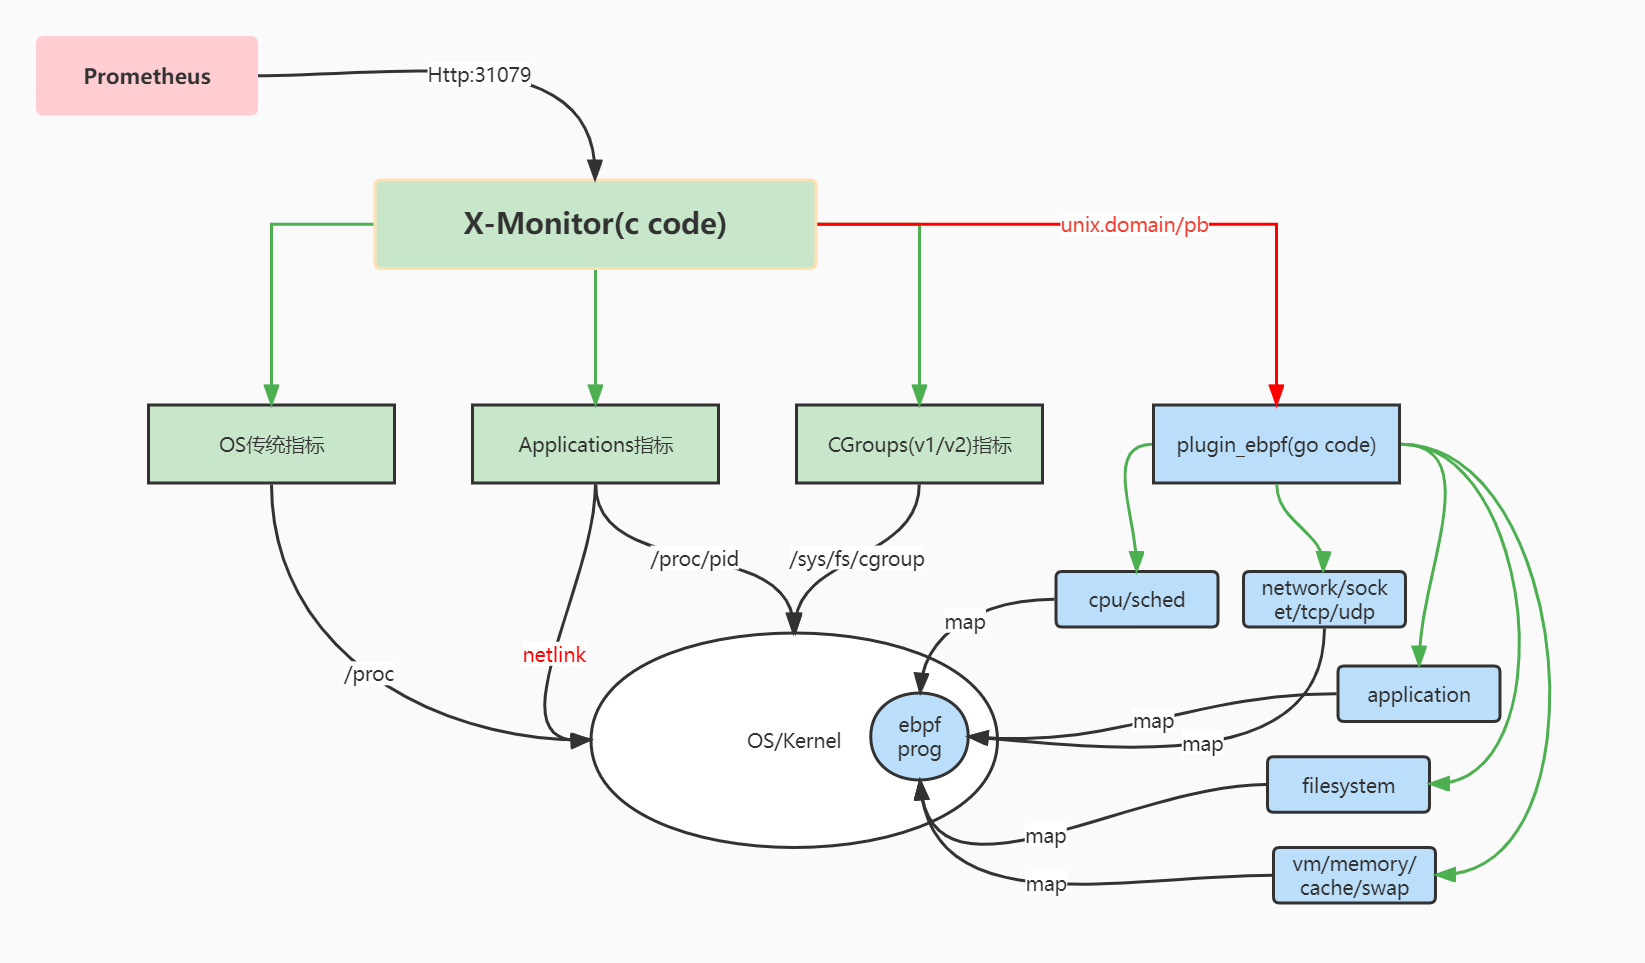
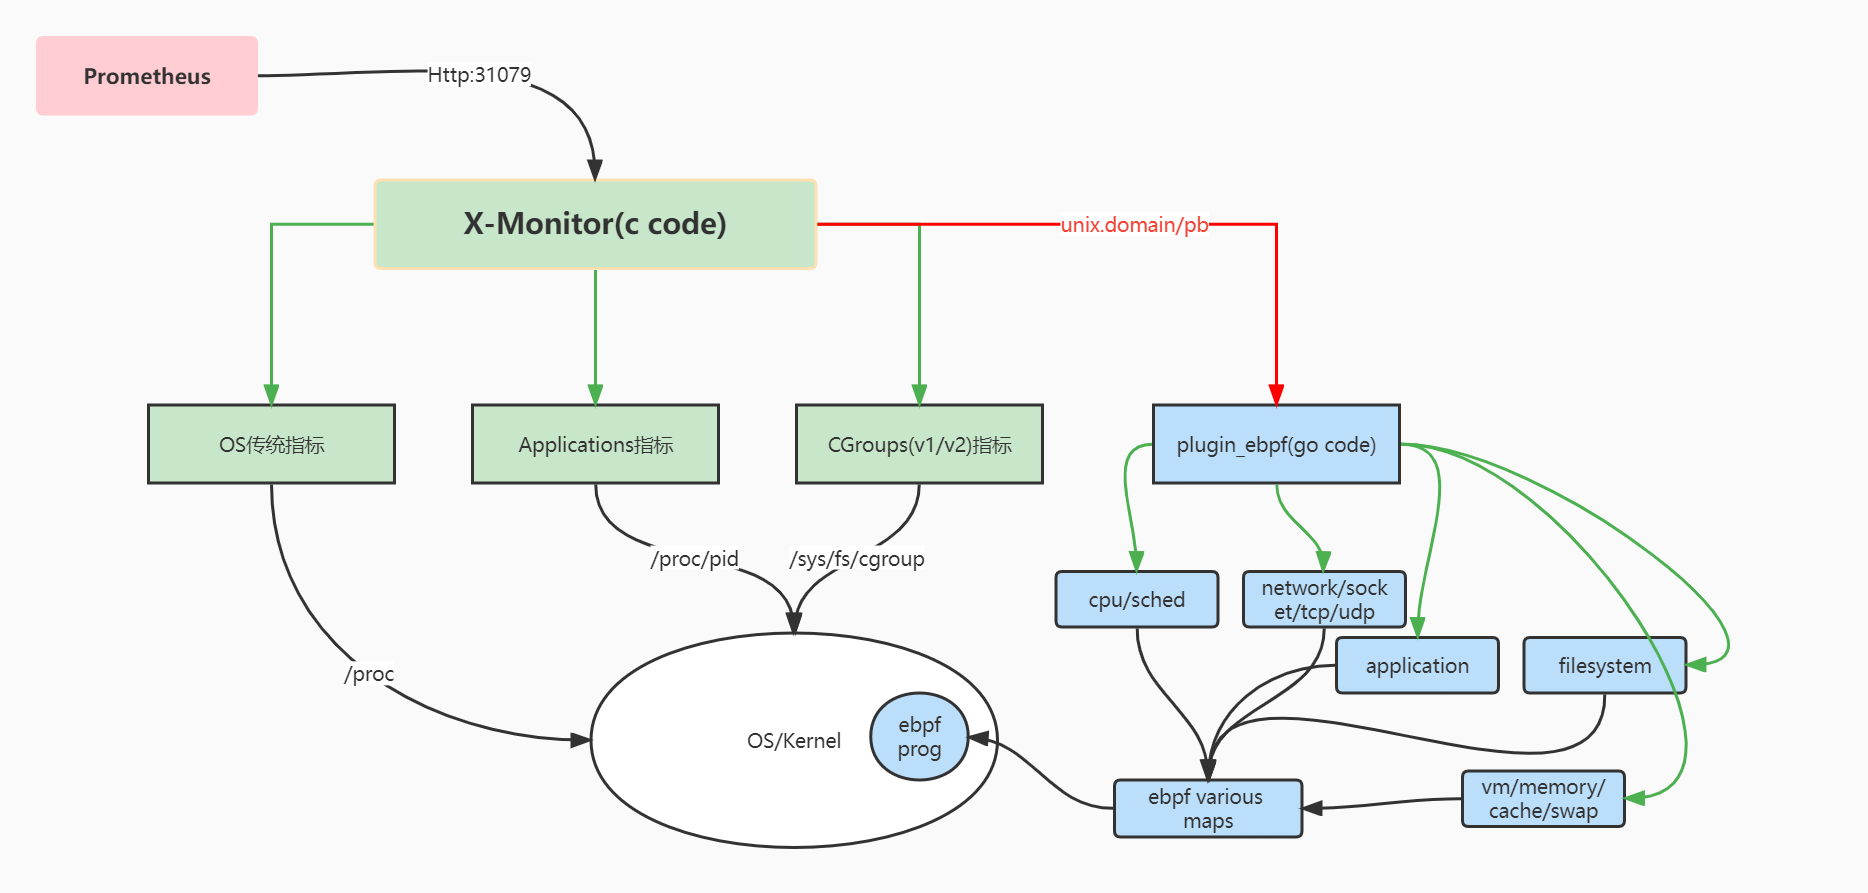
feat:collect process sock diag, modify x-monitor picture

diff --git a/collectors/proc_sock_diag/proc_sock_diag.c b/collectors/proc_sock_diag/proc_sock_diag.c
@@ -1,0 +1,34 @@
+/*
+ * @Author: CALM.WU
+ * @Date: 2022-11-15 16:04:51
+ * @Last Modified by: CALM.WU
+ * @Last Modified time: 2022-11-15 16:26:09
+ */
+
+#include "proc_sock_diag.h"
+#include "common_def.h"
+
+#include "utils/common.h"
+#include "utils/compiler.h"
+
+static const char *const __socket_state_name[] = {
+    "UNKNOWN",
+    [SS_ESTABLISHED] = "ESTABLISHED",
+    [SS_SYN_SENT] = "SYN_SENT",
+    [SS_SYN_RECV] = "SYN_RECV",
+    [SS_FIN_WAIT1] = "FIN_WAIT1",
+    [SS_FIN_WAIT2] = "FIN_WAIT2",
+    [SS_TIME_WAIT] = "TIME_WAIT",
+    [SS_CLOSE] = "CLOSE",
+    [SS_CLOSE_WAIT] = "CLOSE_WAIT",
+    [SS_LAST_ACK] = "LAST_ACK",
+    [SS_LISTEN] = "LISTEN",
+    [SS_CLOSING] = "CLOSING", /* Now a valid state */
+};
+
+const char *sock_state_name(enum SOCK_STATE ss) {
+    if (ss < 1 || ss >= SS_MAX) {
+        return __socket_state_name[0];
+    }
+    return __socket_state_name[ss];
+}

diff --git a/collectors/proc_sock_diag/common_def.h b/collectors/proc_sock_diag/common_def.h
@@ -1,0 +1,39 @@
+/*
+ * @Author: CALM.WU
+ * @Date: 2022-11-15 15:07:39
+ * @Last Modified by: CALM.WU
+ * @Last Modified time: 2022-11-15 16:23:04
+ */
+
+#pragma once
+
+#include <stdint.h>
+#include <uapi/
+
+// SOCK类型
+enum SOCK_TYPE { ST_UNKNOWN, ST_TCP, ST_TCP6, ST_UDP, ST_UDP6, ST_UNIX, ST_MAX };
+
+// SOCK状态
+enum SOCK_STATE {
+    SS_UNKNOWN = 0,
+    SS_ESTABLISHED = 1,
+    SS_SYN_SENT,
+    SS_SYN_RECV,
+    SS_FIN_WAIT1,
+    SS_FIN_WAIT2,
+    SS_TIME_WAIT,
+    SS_CLOSE,
+    SS_CLOSE_WAIT,
+    SS_LAST_ACK,
+    SS_LISTEN,
+    SS_CLOSING,   /* Now a valid state */
+    SS_MAX_STATES /* Leave at the end! */
+};
+
+struct sock_info {
+    uint32_t        ino;   // sock inode
+    enum SOCK_TYPE  sock_type;
+    enum SOCK_STATE sock_state;
+};
+
+extern const char *const socket_state_name[];

diff --git a/collectors/proc_sock_diag/proc_sock_diag.h b/collectors/proc_sock_diag/proc_sock_diag.h
@@ -1,0 +1,16 @@
+/*
+ * @Author: CALM.WU
+ * @Date: 2022-11-15 15:06:47
+ * @Last Modified by: CALM.WU
+ * @Last Modified time: 2022-11-15 16:42:59
+ */
+
+#pragma once
+
+#include "common_def.h"
+
+extern const char *sock_state_name(enum SOCK_STATE ss);
+
+extern int32_t do_sock_diag();
+
+extern struct sock_info *find_sock_info(uint32_t ino);

diff --git a/collectors/proc_sock_diag/proc_tcp_diag.c b/collectors/proc_sock_diag/proc_tcp_diag.c
@@ -1,0 +1,9 @@
+/*
+ * @Author: CALM.WU
+ * @Date: 2022-11-15 15:08:58
+ * @Last Modified by: CALM.WU
+ * @Last Modified time: 2022-11-15 15:35:51
+ */
+
+// https://guanjunjian.github.io/2017/11/09/study-8-proc-net-tcp-analysis/
+// /proc/net/tcp 与 /proc/net/tcp6

diff --git a/collectors/proc_sock_diag/proc_udp_diag.c b/collectors/proc_sock_diag/proc_udp_diag.c
@@ -1,0 +1,6 @@
+/*
+ * @Author: CALM.WU
+ * @Date: 2022-11-15 15:10:52
+ * @Last Modified by: CALM.WU
+ * @Last Modified time: 2022-11-15 15:31:10
+ */

diff --git a/collectors/proc_sock_diag/proc_unix_diag.c b/collectors/proc_sock_diag/proc_unix_diag.c
@@ -1,0 +1,6 @@
+/*
+ * @Author: CALM.WU
+ * @Date: 2022-11-15 15:10:50
+ * @Last Modified by: CALM.WU
+ * @Last Modified time: 2022-11-15 15:31:11
+ */
